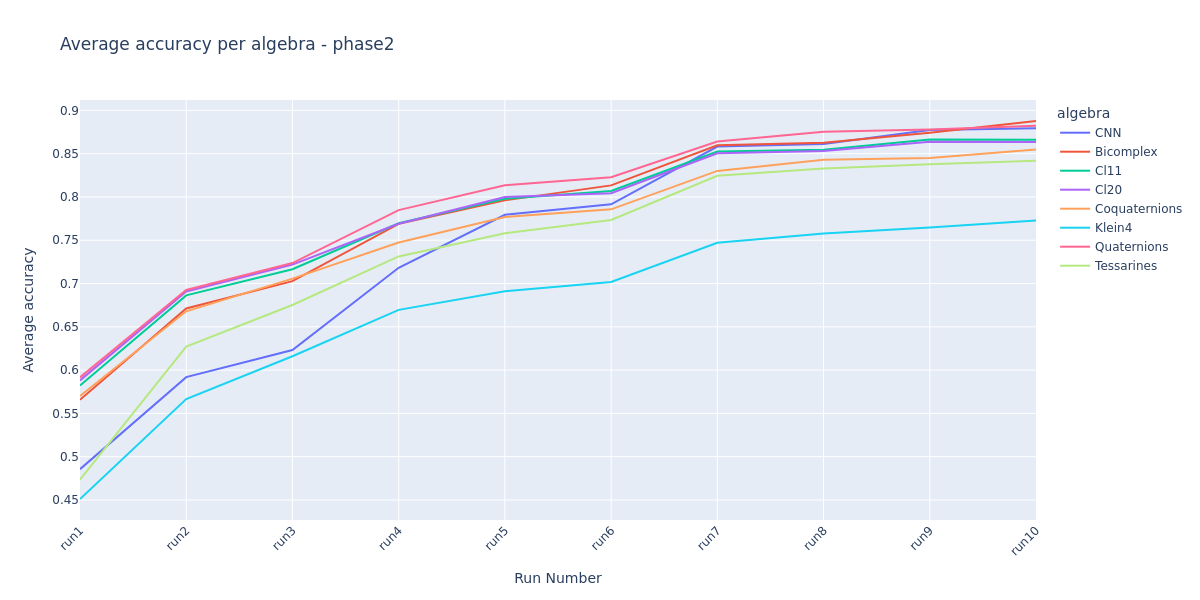
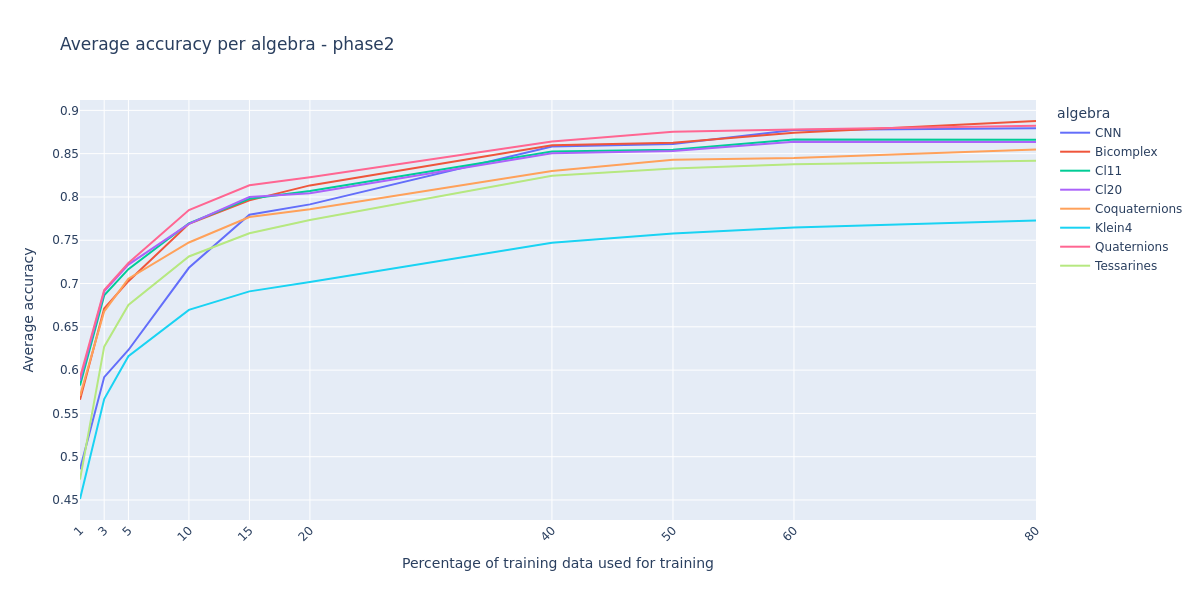
Phase3 and Phase4 conclusions + X label improvements

diff --git a/analysis/MultiRunAnalysis.py b/analysis/MultiRunAnalysis.py
@@ -11,6 +11,7 @@ PHASE_1 = "phase1"
 PHASE_2 = "phase2"
 PHASE_3 = "phase3"
 PHASE_4 = "phase4"
+RUN_LABELS_SPLIT = [1, 3, 5, 10, 15, 20, 40, 50, 60, 80] # For phase 1, 2, 3, 4
 # ---------------------------------------------------------
 
 def read_phase_data(run_phase, runs, only_hypercomplex=False):
@@ -49,7 +50,7 @@ def group_evaluation_by(data, runs, group_by_key, evaluation_key):
 
     return grouped_evaluation
 
-def get_average_evaluation_grouped_by(data, runs, run_phase, group_by_key, evaluation_key="accuracy"):
+def get_average_evaluation_grouped_by(data, runs, run_phase, run_labels, group_by_key, evaluation_key="accuracy"):
     grouped_evaluation = group_evaluation_by(data, runs, group_by_key, evaluation_key)
 
     average_evaluation = {run_name: {group_by_value: sum(values) / len(values) for group_by_value, values in group_by_values.items()} for
@@ -58,19 +59,19 @@ def get_average_evaluation_grouped_by(data, runs, run_phase, group_by_key, evalu
     plot_data = []
     for run_name, group_by_values in average_evaluation.items():
         for group_by_value, avg_evaluation in group_by_values.items():
-            plot_data.append({"run_name": run_name, f"{group_by_key}": group_by_value, f"average_{evaluation_key}": avg_evaluation})
+            plot_data.append({"run_name": run_labels[runs.index(run_name)], f"{group_by_key}": group_by_value, f"average_{evaluation_key}": avg_evaluation})
 
     df = pd.DataFrame(plot_data)
 
     fig = plt_exp.line(df, x="run_name", y=f"average_{evaluation_key}", color=f"{group_by_key}",
                        title=f"Average {evaluation_key} per {group_by_key} - {run_phase}",
-                       labels={"run_name": "Run Number", f"average_{evaluation_key}": f"Average {evaluation_key}",
+                       labels={"run_name": "Percentage of training data used for training", f"average_{evaluation_key}": f"Average {evaluation_key}",
                                f"{group_by_key}": f"{group_by_key}"})
 
-    fig.update_layout(xaxis_tickangle=-45, height=600, width=1200)
+    fig.update_layout(xaxis_tickangle=-45, height=600, width=1200, xaxis=dict(tickmode='array',tickvals=run_labels, ticktext=run_labels))
     fig.write_image(os.path.join(run_phase, f"avg_{evaluation_key}_by_{group_by_key}.png"))
 
-def get_average_evaluation_between_phases_grouped_by(data_phase1, data_phase2, phase_nums, runs, group_by_key, evaluation_key="accuracy"):
+def get_average_evaluation_between_phases_grouped_by(data_phase1, data_phase2, phase_nums, run_labels, runs, group_by_key, evaluation_key="accuracy"):
     grouped_evaluation_phase1 = group_evaluation_by(data_phase1, runs, group_by_key, evaluation_key)
     grouped_evaluation_phase2 = group_evaluation_by(data_phase2, runs, group_by_key, evaluation_key)
 
@@ -82,20 +83,20 @@ def get_average_evaluation_between_phases_grouped_by(data_phase1, data_phase2, p
     plot_data = []
     for run_name, group_by_values in average_evaluation_phase1.items():
         for group_by_value, avg_evaluation in group_by_values.items():
-            plot_data.append({"run_name": run_name, f"{group_by_key}": group_by_value, f"average_{evaluation_key}": avg_evaluation, "phase": f"phase{phase_nums[0]}"})
+            plot_data.append({"run_name": run_labels[runs.index(run_name)], f"{group_by_key}": group_by_value, f"average_{evaluation_key}": avg_evaluation, "phase": f"phase{phase_nums[0]}"})
 
     for run_name, group_by_values in average_evaluation_phase2.items():
         for group_by_value, avg_evaluation in group_by_values.items():
-            plot_data.append({"run_name": run_name, f"{group_by_key}": group_by_value, f"average_{evaluation_key}": avg_evaluation, "phase": f"phase{phase_nums[1]}"})
+            plot_data.append({"run_name": run_labels[runs.index(run_name)], f"{group_by_key}": group_by_value, f"average_{evaluation_key}": avg_evaluation, "phase": f"phase{phase_nums[1]}"})
 
     df = pd.DataFrame(plot_data)
 
     fig = plt_exp.line(df, x="run_name", y=f"average_{evaluation_key}", color=f"{group_by_key}", line_dash="phase",
                        title=f"Average {evaluation_key} per {group_by_key} (Phase Comparison)",
-                       labels={"run_name": "Run Number", f"average_{evaluation_key}": f"Average {evaluation_key}",
+                       labels={"run_name": "Percentage of training data used for training", f"average_{evaluation_key}": f"Average {evaluation_key}",
                                f"{group_by_key}": f"{group_by_key}", "phase": "Phase"})
 
-    fig.update_layout(xaxis_tickangle=-45, height=600, width=1200)
+    fig.update_layout(xaxis_tickangle=-45, height=600, width=1200, xaxis=dict(tickmode='array',tickvals=run_labels, ticktext=run_labels))
     fig.write_image(os.path.join("between_phases_results", f"phase{phase_nums[0]}_phase{phase_nums[1]}_avg_{evaluation_key}_by_{group_by_key}_comparison.png"))
 
 
@@ -155,12 +156,14 @@ def plot_stacked_bar_for_phase(data, phase, runs, evaluation_key):
     fig.write_image(os.path.join(phase, f"stacked_{evaluation_key}_bar_chart.png"))
 
 
-def plot_multirun_phase_results(phase_data, phase_number):
+def plot_multirun_phase_results(phase_data, phase_number, was_hypercomplex_only=False):
     plot_stacked_bar_for_phase(phase_data, phase_number, RUNS_TO_TEST, "accuracy")
     plot_stacked_average_bar_for_phase(phase_data, phase_number, "accuracy")
-    get_average_evaluation_grouped_by(phase_data, RUNS_TO_TEST, phase_number, "algebra", "accuracy")
-    get_average_evaluation_grouped_by(phase_data, RUNS_TO_TEST, phase_number, "color_space", "accuracy")
-    get_average_evaluation_grouped_by(phase_data, RUNS_TO_TEST, phase_number, "type", "accuracy")
+    get_average_evaluation_grouped_by(phase_data, RUNS_TO_TEST, phase_number, RUN_LABELS_SPLIT, "algebra", "accuracy")
+    get_average_evaluation_grouped_by(phase_data, RUNS_TO_TEST, phase_number, RUN_LABELS_SPLIT, "color_space", "accuracy")
+
+    if not was_hypercomplex_only:
+        get_average_evaluation_grouped_by(phase_data, RUNS_TO_TEST, phase_number, RUN_LABELS_SPLIT, "type", "accuracy")
 
 phase1_data = read_phase_data(PHASE_1, RUNS_TO_TEST, only_hypercomplex=False)
 phase2_data = read_phase_data(PHASE_2, RUNS_TO_TEST, only_hypercomplex=False)
@@ -169,11 +172,11 @@ phase4_data = read_phase_data(PHASE_4, RUNS_TO_TEST, only_hypercomplex=False)
 
 plot_multirun_phase_results(phase1_data, PHASE_1)
 plot_multirun_phase_results(phase2_data, PHASE_2)
-plot_multirun_phase_results(phase3_data, PHASE_3)
-plot_multirun_phase_results(phase4_data, PHASE_4)
+plot_multirun_phase_results(phase3_data, PHASE_3, was_hypercomplex_only=True)
+plot_multirun_phase_results(phase4_data, PHASE_4, was_hypercomplex_only=True)
 
 # ------------------- Phase 1 vs Phase 2 -------------------
-get_average_evaluation_between_phases_grouped_by(phase1_data, phase2_data, (1, 2), RUNS_TO_TEST, "color_space", "accuracy")
+get_average_evaluation_between_phases_grouped_by(phase1_data, phase2_data, (1, 2), RUN_LABELS_SPLIT,  RUNS_TO_TEST, "color_space", "accuracy")
 
 # ------------------- Phase 3 vs Phase 4 -------------------
-get_average_evaluation_between_phases_grouped_by(phase3_data, phase4_data, (3, 4), RUNS_TO_TEST, "color_space", "accuracy")
+get_average_evaluation_between_phases_grouped_by(phase3_data, phase4_data, (3, 4), RUN_LABELS_SPLIT,  RUNS_TO_TEST, "color_space", "accuracy")

diff --git a/phase_plans_and_conclusions/phase4_plan.md b/phase_plans_and_conclusions/phase4_plan.md
@@ -1,37 +1,115 @@
-# TBD
+## Phase 3 - Further color space transformation analysis
 
-> TODO Convert it to a proper description
+The aim of this phase is to further test the transformation of the color space relative to no transformation, where the
+4th channel is the zero channel. This phase is a re-test of the models with the Klein4 algebra and CMYK color space
+discarded, with RGB/HSV/YUV/YIQ transformations tested. Only HyperComplex models were tested in this phase. This phase
+is closely linked to phase 4, where transformations have already been tested.
+
+### Phase parameters
+
+- Image size: (100, 100)
+- Dataset: 8 classes, 1200 images per class
+- Dataset URL - [Blood Cells](https://www.kaggle.com/datasets/bzhbzh35/peripheral-blood-cell)
+- Algebras: Quaternions, Cl20, Coquaternions, Cl11, Bicomplex, Tessarines
+- Color spaces: RGB, HSV, YUV, YIQ
+
+| Run number | Proportion (%) | Training set (per class) | Validation set (per class) | Test set (per class) | Training set (all) | Validation set (all) | Test set (all) |
+|------------|----------------|--------------------------|----------------------------|----------------------|--------------------|----------------------|----------------|
+| Run1       | **1/1/98**     | 12                       | 12                         | 1176                 | 96                 | 96                   | 9408           |
+| Run2       | **3/3/94**     | 36                       | 36                         | 1128                 | 288                | 288                  | 9024           |
+| Run3       | **5/5/90**     | 60                       | 60                         | 1080                 | 480                | 480                  | 8640           |
+| Run4       | **10/10/80**   | 120                      | 120                        | 960                  | 960                | 960                  | 7680           |
+| Run5       | **15/15/70**   | 180                      | 180                        | 840                  | 1440               | 1440                 | 6720           |
+| Run6       | **20/20/60**   | 240                      | 240                        | 720                  | 1920               | 1920                 | 5760           |
+| Run7       | **40/20/40**   | 480                      | 240                        | 480                  | 3840               | 1920                 | 3840           |
+| Run8       | **50/20/30**   | 600                      | 240                        | 360                  | 4800               | 1920                 | 2880           |
+| Run9       | **60/20/20**   | 720                      | 240                        | 240                  | 5760               | 1920                 | 1920           |
+| Run10      | **80/10/10**   | 960                      | 120                        | 120                  | 7680               | 960                  | 960            |
+
+### Color transformations
+
+#### RGB
+
+- **CNN**: The image remains in its original RGB format.
+- **HCNN**: The RGB channels are transformed into 4 dimensions:
+    - **log(1 + Magnitude)**, where Magnitude = sqrt(R² + G² + B²)
+    - **Phase RG** = atan2(G, R)
+    - **Phase RB** = atan2(B, R)
+    - **Magnitude * cos(Phase RG + Phase RB)**
+
+#### HSV
+
+- **CNN**: The RGB image is converted to HSV.
+- **HCNN**: The HSV channels are transformed into 4 dimensions:
+    - **V**
+    - **exp(S) * cos(θ)**, where θ = H * 2π
+    - **exp(S) * sin(θ)**
+    - **sin(V * π)**
+
+#### YUV
+
+- **CNN**: The RGB image is converted to YUV.
+- **HCNN**: The U and V channels are transformed into polar coordinates:
+    - **Y (Luminance)**
+    - **Magnitude * cos(2θ)**, where Magnitude = sqrt(U² + V²) and θ = atan2(V, U)
+    - **Magnitude * sin(2θ)**
+    - **exp(-Magnitude)**
+
+#### YIQ
+
+- **CNN**: The RGB image is converted to YIQ.
+- **HCNN**: The I and Q channels are transformed into polar coordinates:
+    - **Y (Luminance)**
+    - **Magnitude * cos(2θ)**, where Magnitude = sqrt(I² + Q²) and θ = atan2(Q, I)
+    - **Magnitude * sin(2θ)**
+    - **exp(-Magnitude)**
+
+### Models
+
+#### Convolutional Neural Network
+
 ```python
-def perform_hypercomplex_transformation(image, color_space):
-    if color_space == "RGB":
-        r, g, b = tf.split(image, 3, axis=-1)
-        magnitude = tf.sqrt(r ** 2 + g ** 2 + b ** 2)
-        phase_rg = tf.atan2(g, r)
-        phase_rb = tf.atan2(b, r)
-        return tf.concat([tf.math.log1p(magnitude), phase_rg, phase_rb, magnitude * tf.cos(phase_rg + phase_rb)], axis=-1)
-    elif color_space == "HSV":
-        image = tf.image.rgb_to_hsv(image)
-        h, s, v = tf.split(image, 3, axis=-1)
-        theta = h * 2 * np.pi
-        return tf.concat([v, tf.exp(s) * tf.cos(theta), tf.exp(s) * tf.sin(theta), tf.sin(v * np.pi)], axis=-1)
-    elif color_space == "YUV":
-        image = tf.image.rgb_to_yuv(image)
-        y, u, v = tf.split(image, 3, axis=-1)
-        magnitude = tf.sqrt(u ** 2 + v ** 2)
-        theta = tf.atan2(v, u)
-        return tf.concat([y, magnitude * tf.cos(2 * theta), magnitude * tf.sin(2 * theta), tf.exp(-magnitude)], axis=-1)
-    elif color_space == "YIQ":
-        image = tf.image.rgb_to_yiq(image)
-        y, i, q = tf.split(image, 3, axis=-1)
-        magnitude = tf.sqrt(i ** 2 + q ** 2)
-        theta = tf.atan2(q, i)
-        return tf.concat([y, magnitude * tf.cos(2 * theta), magnitude * tf.sin(2 * theta), tf.exp(-magnitude)], axis=-1)
-    elif color_space == "CMYK":
-        cmy = 1 - image
-        k = tf.reduce_min(cmy, axis=-1, keepdims=True)
-        denominator = 1 - k + 1e-8
-        c = (cmy[..., 0:1] - k) / denominator
-        m = (cmy[..., 1:2] - k) / denominator
-        y = (cmy[..., 2:3] - k) / denominator
-        return tf.concat([c, m, y, k], axis=-1)
+def build_model(input_shape, num_classes, metrics):
+    model = Sequential()
+    model.add(Input(shape=input_shape))
+
+    model.add(Conv2D(32, (3, 3), activation='relu'))
+    model.add(MaxPooling2D())
+
+    model.add(Conv2D(64, (3, 3), activation='relu'))
+    model.add(MaxPooling2D())
+
+    model.add(Conv2D(128, (3, 3), activation='relu'))
+    model.add(MaxPooling2D())
+
+    model.add(Flatten())
+    model.add(Dense(num_classes, activation='softmax'))
+
+    model.compile(loss='categorical_crossentropy', optimizer=Adam(), metrics=metrics)
+
+    return model
+```
+
+#### HyperComplex Convolutional Neural Network
+
+```python
+def build_model(input_shape, num_classes, metrics, algebra):
+    model = Sequential()
+    model.add(Input(shape=input_shape))
+
+    model.add(HyperConv2D(8, (3, 3), activation='relu', algebra=algebra))
+    model.add(MaxPooling2D())
+
+    model.add(HyperConv2D(16, (3, 3), activation='relu', algebra=algebra))
+    model.add(MaxPooling2D())
+
+    model.add(HyperConv2D(32, (3, 3), activation='relu', algebra=algebra))
+    model.add(MaxPooling2D())
+
+    model.add(Flatten())
+    model.add(Dense(num_classes, activation='softmax'))
+
+    model.compile(loss='categorical_crossentropy', optimizer=Adam(), metrics=metrics)
+
+    return model
 ```

diff --git a/phase_plans_and_conclusions/phase3_4_conclusions.md b/phase_plans_and_conclusions/phase3_4_conclusions.md
@@ -1,0 +1,47 @@
+# Color spaces
+
+![Phase3_and_4_color_space_comparison](../analysis/between_phases_results/phase3_phase4_avg_accuracy_by_color_space_comparison.png)
+
+## Color space transformations conclusions
+
+### RGB
+
+Better results achieved in:  
+`Phase4` HCNN: The channels are split into **(log(1 + Magnitude), Phase RG, Phase RB, Magnitude * cos(Phase RG + Phase
+RB))** where Magnitude = sqrt(R² + G² + B²).
+
+### HSV
+
+Better results achieved in:  
+`Phase3` HCNN: The channels are split into **(V, S * cos(θ), S * sin(θ), V * cos(θ))** where θ = H * 2π.
+
+### YUV
+
+Better results achieved in:  
+`Phase4` HCNN: The channels are split into **(Y, Magnitude * cos(2θ), Magnitude * sin(2θ, exp(-Magnitude))** where θ =
+H * 2π and Magnitude = sqrt(U² + V²).
+
+### YIQ
+
+Better results achieved in:  
+`Phase4` HCNN: The channels are split into **(Y, Magnitude * cos(2θ), Magnitude * sin(2θ, exp(-Magnitude))** where θ =
+H * 2π and Magnitude = sqrt(I² + Q²).
+
+## Color space type conclusions
+
+Ranking from best to worst:
+
+1. YUV
+2. YIQ/RGB (approximately RGB better for 1-30% training split, YIQ better for 40-80% training split)
+3. HSV
+
+**Final conclusion - All color spaces will be retained for further analysis.**
+
+# Algebra types
+
+![Phase3_algebra_comparison](../analysis/phase3/avg_accuracy_by_algebra.png)
+![Phase4_algebra_comparison](../analysis/phase4/avg_accuracy_by_algebra.png)
+
+**Final conclusion - In Phase 4, all algebra types achieve similar results - further analysis is required.**
+
+

diff --git a/phase_plans_and_conclusions/phase1_2_conslusions.md b/phase_plans_and_conclusions/phase1_2_conslusions.md
@@ -6,22 +6,22 @@
 
 ### RGB
 
-Better results achieved in:
+Better results achieved in:  
 `Phase1` HCNN: A fourth channel filled with zeros is added to match hypercomplex representation.
 
 ### HSV
 
-Better results achieved in:
+Better results achieved in:  
 `Phase2` HCNN: The channels are split into **(V, S * cos(θ), S * sin(θ), V * cos(θ))** where θ = H * 2π.
 
 ### YUV
 
-Better results achieved in:
+Better results achieved in:  
 `Phase1` HCNN: A fourth channel filled with zeros is added to match hypercomplex representation.
 
 ### YIQ
 
-Better results achieved in:
+Better results achieved in:  
 `Phase1` HCNN: A fourth channel filled with zeros is added to match hypercomplex representation.
 
 ### CMYK
@@ -43,7 +43,7 @@ Ranking from best to worst:
 # Algebra types
 
 ![Phase1_algebra_comparison](../analysis/phase1/avg_accuracy_by_algebra.png)
-![Phase2_algebra_comparison](../analysis/phase1/avg_accuracy_by_algebra.png)
+![Phase2_algebra_comparison](../analysis/phase2/avg_accuracy_by_algebra.png)
 
 **Final conclusion - Klein4 will be removed from the next phase to reduce training complexity.**
 

diff --git a/phase_plans_and_conclusions/phase2_plan.md b/phase_plans_and_conclusions/phase2_plan.md
@@ -28,19 +28,19 @@ addition, phase 2 is linked to phase 1 to compare color space transformations.
 
 #### RGB
 
-- CNN: The image is kept in its original RGB format.
+- CNN: The image remains in its original RGB format.
 - HCNN: The RGB channels are transformed into 4 dimensions:
     - **R**
     - **G**
     - **B**
-    - **Magnitude * cos(θ)** (where Magnitude is sqrt(R^2 * G^2 * B^2) and θ = atan2(B - G, R)
+    - **Magnitude * cos(θ)** (where Magnitude is sqrt(R² * G² * B²) and θ = atan2(B - G, R)
 
 
 #### HSV
 
 - CNN: The RGB image is converted to HSV.
 - HCNN: The channels are split into:
-    - **V** (Value)
+    - **V**
     - **S * cos(θ)** (where θ = H * 2π)
     - **S * sin(θ)**
     - **V * cos(θ)**

diff --git a/phase_plans_and_conclusions/phase3_plan.md b/phase_plans_and_conclusions/phase3_plan.md
@@ -30,13 +30,13 @@ Only HyperComplex models were tested in this phase. This phase is closely linked
 
 #### RGB
 
-- CNN: The image is kept in its original RGB format.
+- CNN: The image remains in its original RGB format.
 - HCNN: A fourth channel filled with zeros is added to match hypercomplex representation.
 
 #### HSV
 
 - CNN: The RGB image is converted to HSV.
-- HCNN: The channels are split into:
+- HCNN: The HSV channels are transformed into 4 dimensions:
     - **V** (Value)
     - **S * cos(θ)** (where θ = H * 2π)
     - **S * sin(θ)**

diff --git a/phase_plans_and_conclusions/phase1_plan.md b/phase_plans_and_conclusions/phase1_plan.md
@@ -28,7 +28,7 @@ addition, phase 1 is linked to phase 2 to compare color space transformations.
 
 #### RGB
 
-- CNN: The image is kept in its original RGB format.
+- CNN: The image remains in its original RGB format.
 - HCNN: A fourth channel filled with zeros is added to match hypercomplex representation.
 
 #### HSV
